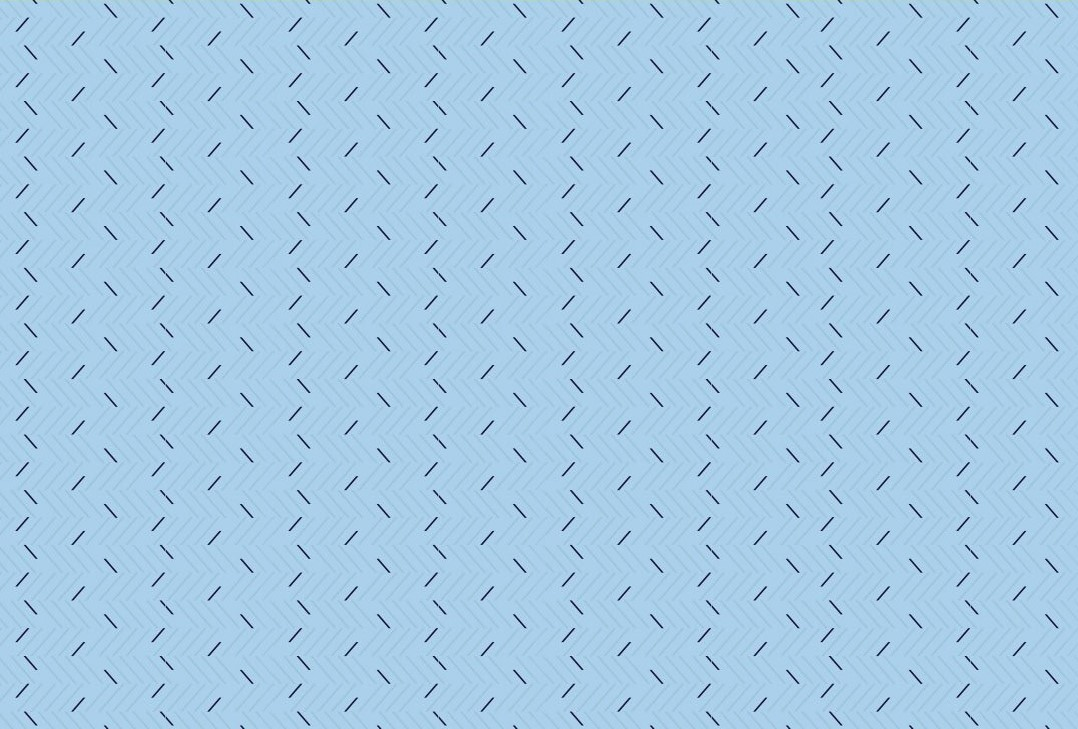
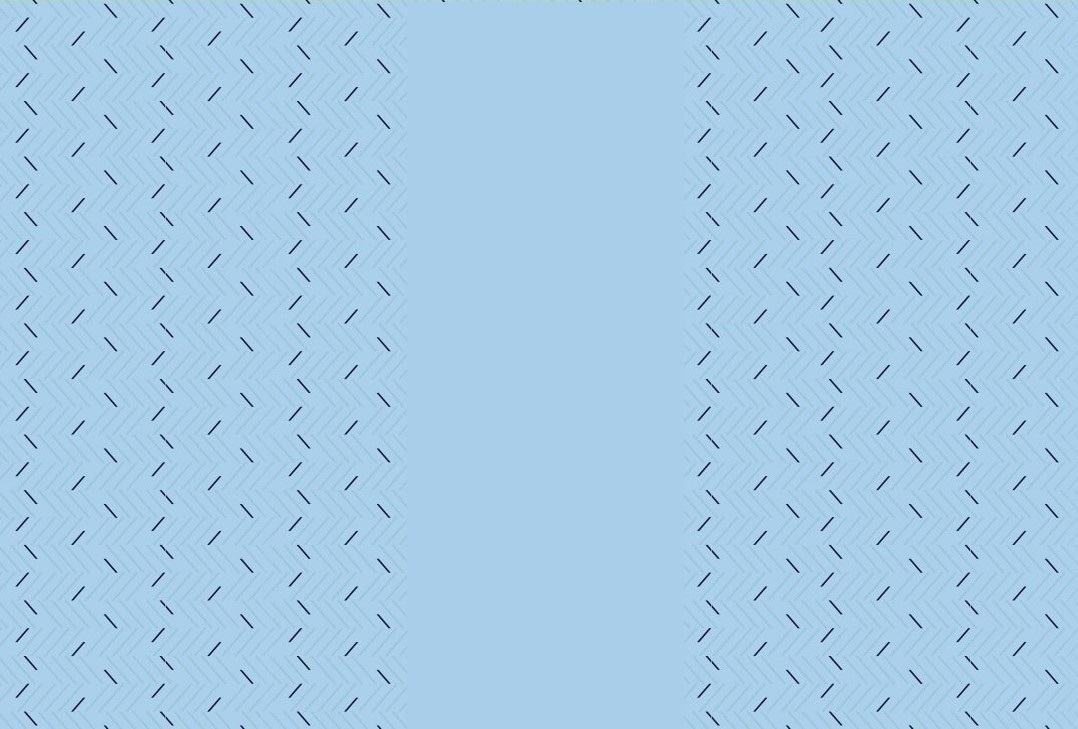
1.0.5t

diff --git a/_sass/devlopr.scss b/_sass/devlopr.scss
@@ -488,7 +488,7 @@ header {
 /* jumbotron */
 .jumbotron {
     background-color: var(--main-background-color) !important;
-    background-image: url("https://i.redd.it/xn801sz0nms51.jpg");
+    background-image: url("https://i.redd.it/hriidrd3qms51.jpg");
     background-attachment: fixed;
     background-size: cover;
     background-position: center;
